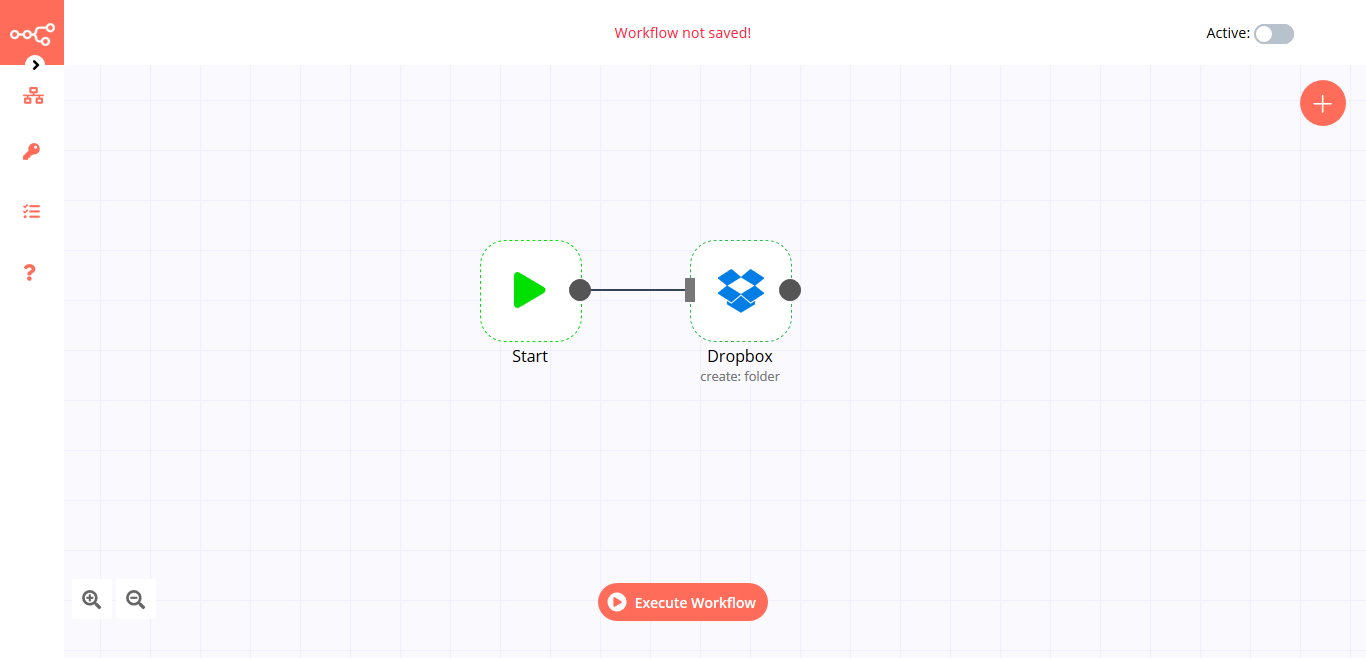
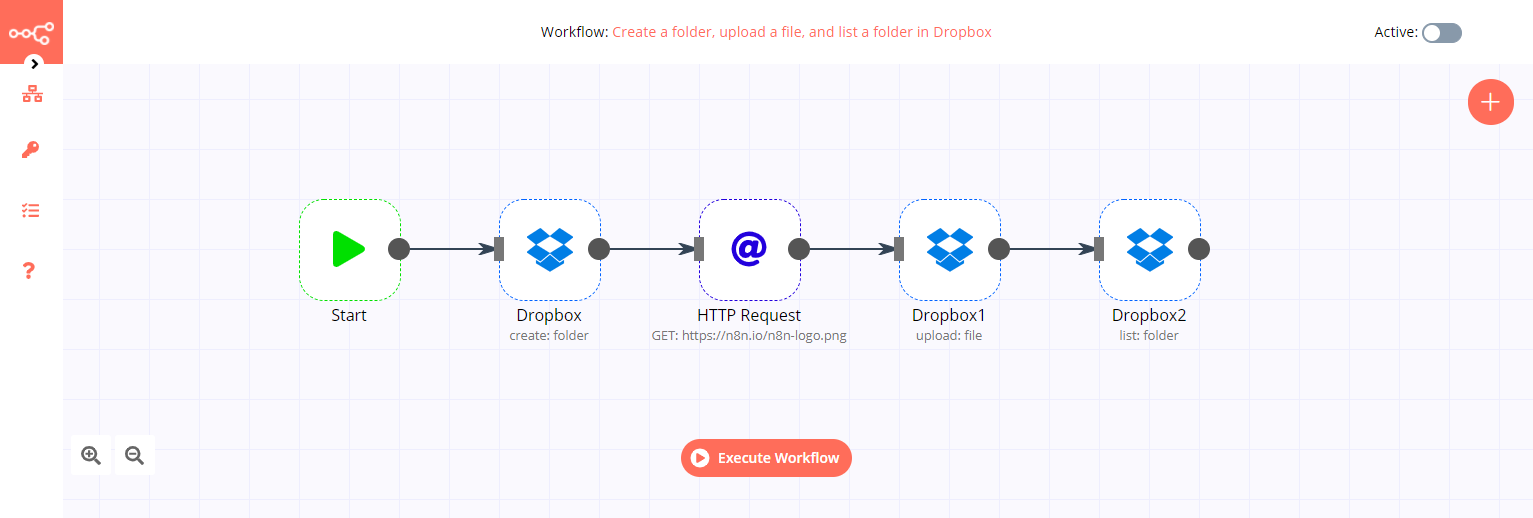
:zap: Extended Dropbox node docs

diff --git a/docs/nodes/nodes-library/nodes/Dropbox/README.md b/docs/nodes/nodes-library/nodes/Dropbox/README.md
@@ -27,9 +27,10 @@ You can find authentication information for this node [here](../../../credential
 
 ## Example Usage
 
-This workflow allows you to create a folder in Dropbox. You can also find the [workflow](https://n8n.io/workflows/439) on this website. This example usage workflow uses the following two nodes.
+This workflow allows you to create a folder in Dropbox, upload a file into that folder, and list the contents of the folder. You can also find the [workflow](https://n8n.io/workflows/615) on this website. This example usage workflow uses the following nodes.
 - [Start](../../core-nodes/Start)
 - [Dropbox]()
+- [HTTP Request](../../core-nodes/HTTPRequest)
 
 The final workflow should look like the following image.
 
@@ -42,6 +43,35 @@ The Start node exists by default when you create a new workflow.
 ### 2. Dropbox node
 
 1. First of all, you'll have to enter credentials for the Dropbox node. You can find out how to do that [here](../../../credentials/Dropbox/).
-2. Select 'Folder' from the *Resource* dropdown list.
-3. Enter the name of the new folder in the *Folder* field.
-4. Click on *Execute Node* to run the workflow.
+2. Select 'Folder' from the ***Resource*** dropdown list.
+3. Enter the name of the new folder in the ***Folder*** field.
+4. Click on ***Execute Node*** to run the workflow.
+
+![Create a folder in Dropbox using the Dropbox node](./Dropbox_node.png)
+
+### 3. HTTP Request node
+
+1. Enter `https://n8n.io/n8n-logo.png` in the ***URL*** field.
+2. Select 'File' from the ***Response Format*** dropdown list.
+3. Click on ***Execute Node*** to run the workflow.
+
+![Get a file to upload in Dropbox using the HTTP Request node](./HTTPRequest_node.png)
+
+### 4. Dropbox1 node
+
+1. Select the credentials that you entered in the Dropbox node.
+2. Enter the path of the Dropbox folder you created in the previous steps along with a file name in the ***File Path*** field.
+3. Set the ***Binary Data*** toggle to true.
+4. Click on ***Execute Node*** to run the node.
+
+![Upload a file in Dropbox using the Dropbox node](./Dropbox1_node.png)
+
+### 5. Dropbox2 node
+
+1. Select the credentials that you entered in the Dropbox node.
+2. Select 'Folder' from the ***Resource*** dropdown list.
+3. Select 'List' from the ***Operation*** dropdown list.
+4. Enter the path of the Dropbox folder you created in the previous steps in the ***Folder Path*** field.
+5. Click on ***Execute Node*** to run the node.
+
+![List the contents of a Dropbox folder using the Dropbox node](./Dropbox2_node.png)
